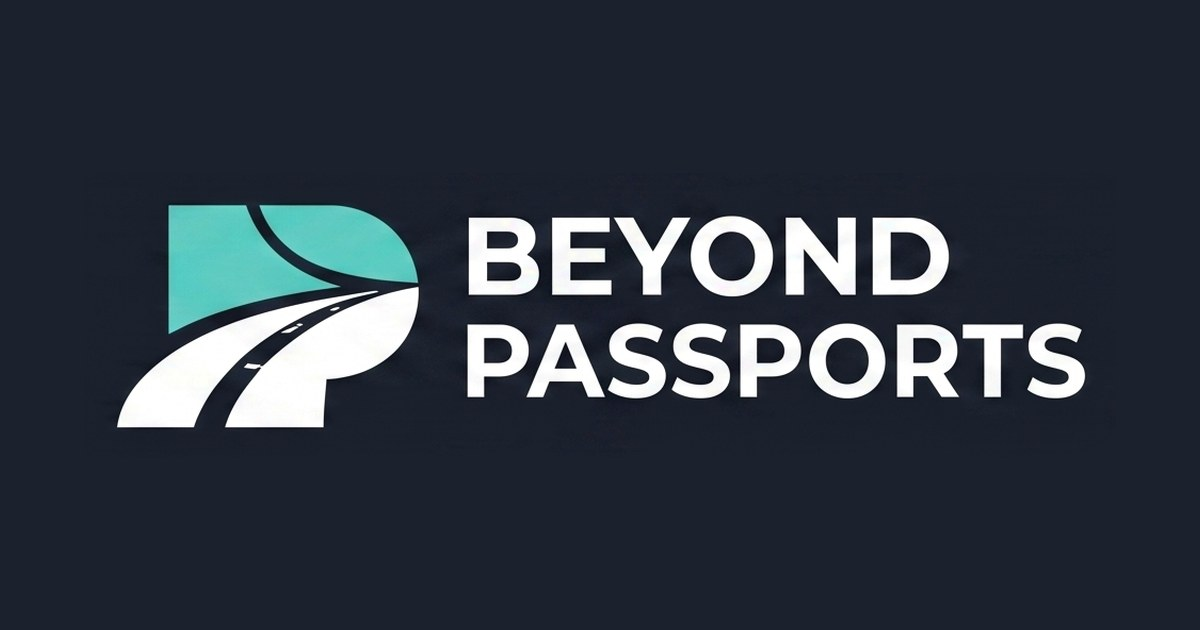
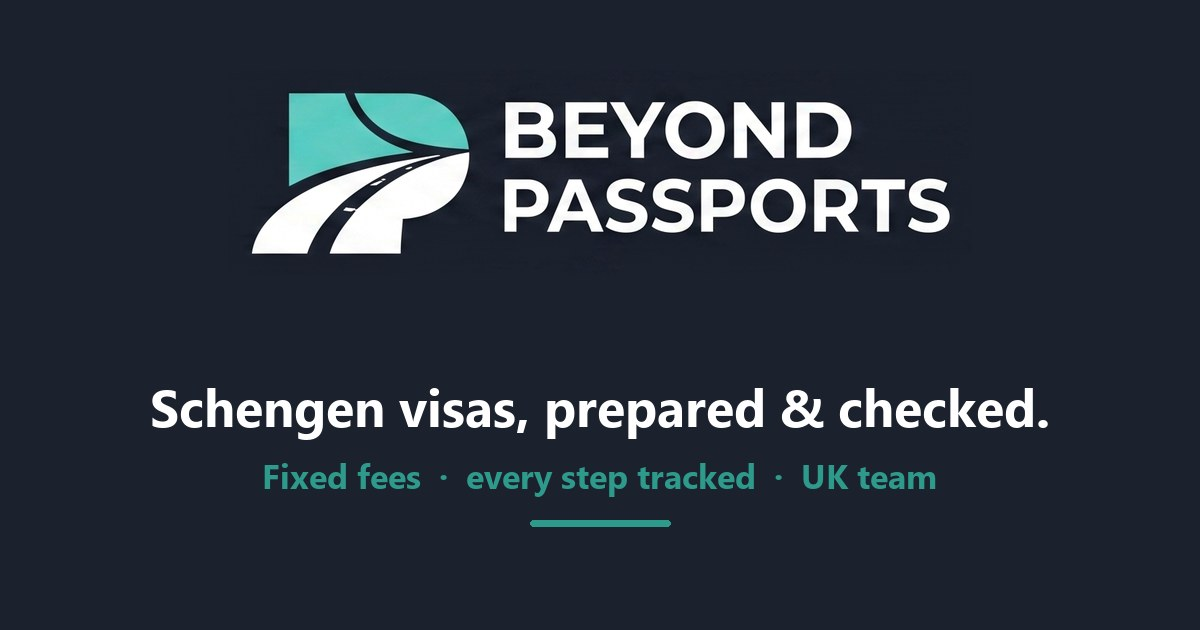
polish(og): tagline + value line on OG card; trim home description <125
OG card now carries 'Schengen visas, prepared & checked' + fixed-fees/UK-team
line (conversion text). Home meta description trimmed to ~118 chars.

Changed region(s): [[0.0925, 0.1206, 0.925, 0.6937], [0.2158, 0.7238, 0.8017, 0.7841], [0.4317, 0.8143, 0.555, 0.8444]]

diff --git a/ukv-app/resources/views/public/home.blade.php b/ukv-app/resources/views/public/home.blade.php
@@ -1,7 +1,7 @@
 @extends('layouts.public')
 
 @section('title', 'Schengen Visas, Sorted Without Stress | Beyond Passports')
-@section('description', 'Independent UK Schengen visa service. We check, prepare and submit your application. Fixed fees, every step tracked. Not a government website.')
+@section('description', 'Independent UK Schengen visa help. We prepare, check and submit your application. Fixed fees. Not a government website.')
 
 @push('head')
 <script type="application/ld+json">
